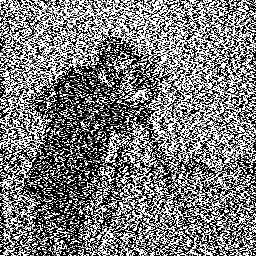
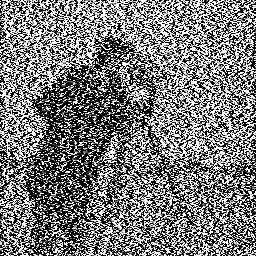
update mainBorder (remove the tic toc)

diff --git a/mainBorder.m b/mainBorder.m
@@ -14,10 +14,10 @@ tic
     %resizefactor = 0.1;
     %I = imresize(I, resizefactor);
 
+    figure('Name','image before deblurring') % Show initial image
+    imshow(I,[]) 
     I = padarray(I, [7 7], "symmetric",'both');
-%     figure('Name','image before deblurring') % Show initial image
-    %imshow(I,[]) 
-
+    
     % Generate blurred image
     noiseDensity = 0.5; 
     kernel = fspecial('gaussian', [15, 15], 5); 
@@ -64,7 +64,7 @@ tic
 
 % Deblurring the image:
 
-    x = optsolve('l1', 'douglasrachfordprimal', x_initAlg1, kernel, b, i);
+    x = optsolve('l1', 'admm', x_initAlg3, kernel, b, i);
     %figure('Name','image after deblurring') % Show deblurred image
     %imshow(x,[]) 
     

diff --git a/main.m b/main.m
@@ -63,8 +63,10 @@ tic
          x_initAlg3 = {u, y, w, z};
  
  % Deblurring the image:
- 
-     x = optsolve('l2', 'algo3', x_initAlg3, kernel, b, i);
+     % ( _, 'douglasrachfordprimal', x_initAlg1, _, _, _) for primal Douglas-Rachford Splitting
+     % ( _, 'douglasrachfordprimaldual', x_initAlg2, _, _, _) for primal-dual Douglas-Rachford Splitting
+     % ( _, 'admm', x_initAlg3, _, _, _) for ADMM
+     x = optsolve('l2', 'admm', x_initAlg3, kernel, b, i);
      toc
      figure('Name','image after deblurring') % Show blurred image
      imshow(x,[]) 
